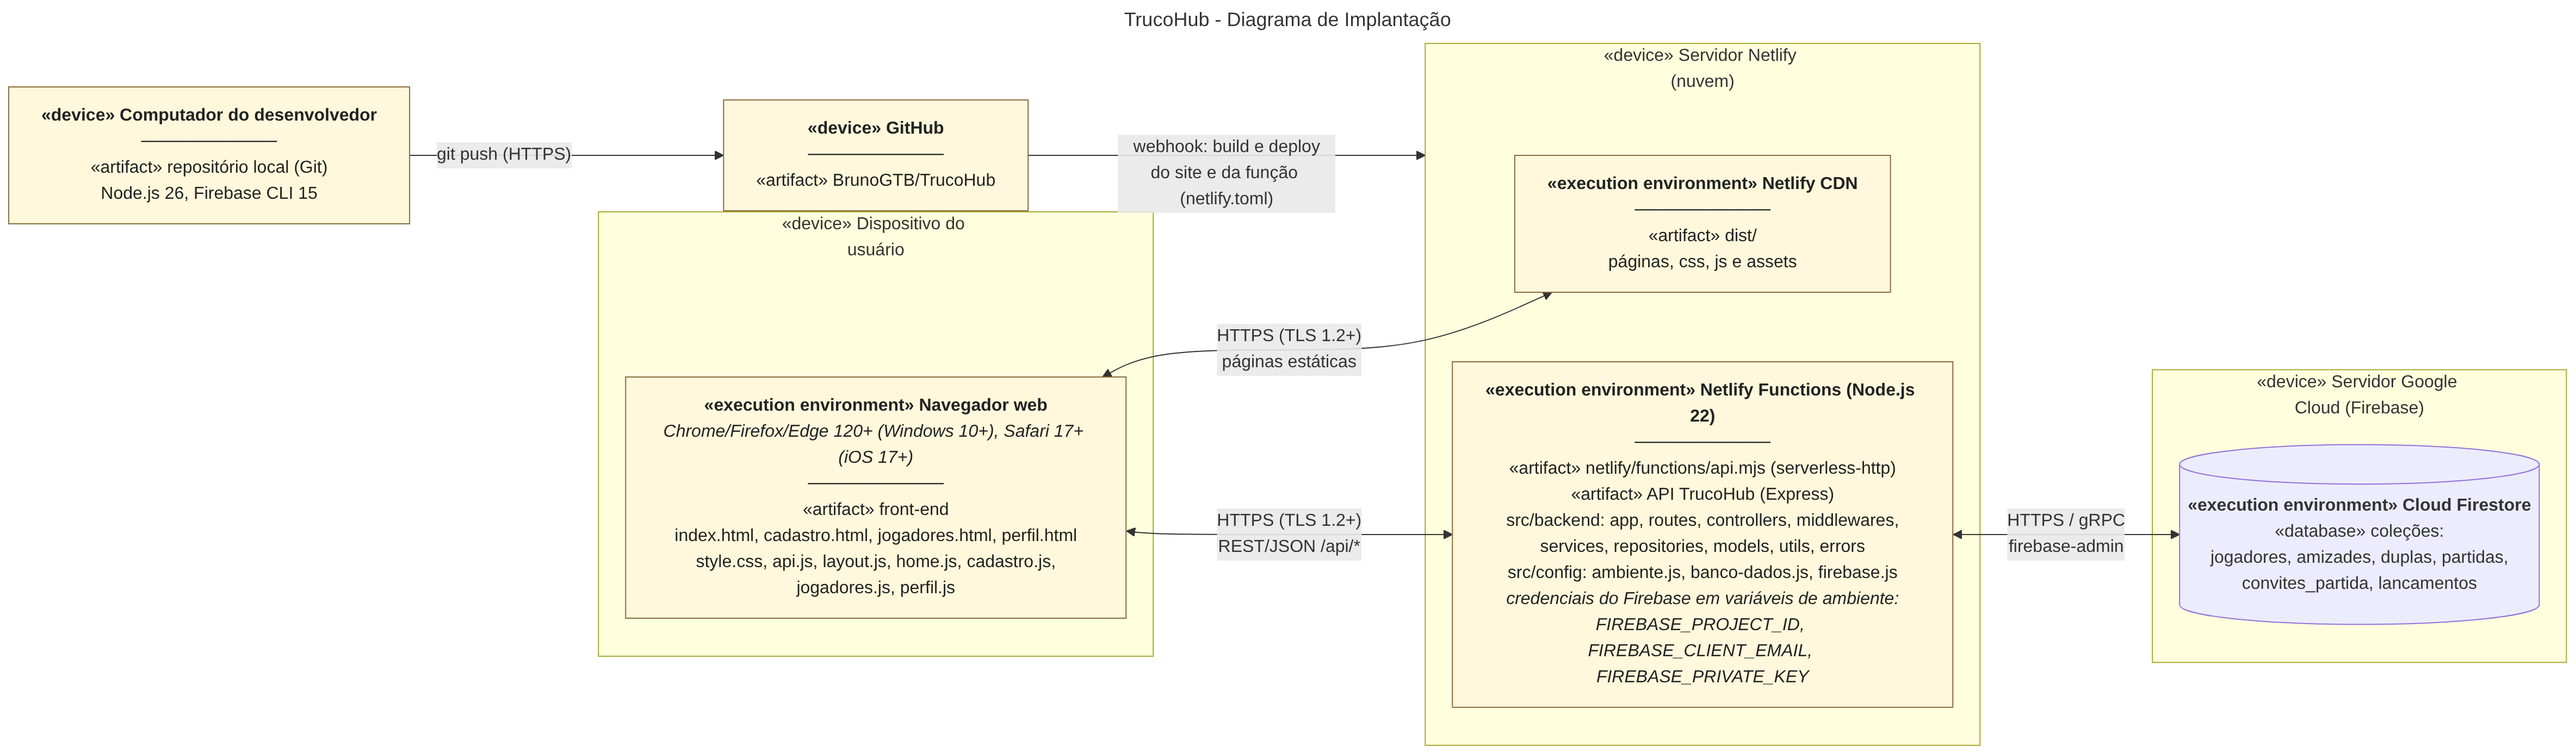
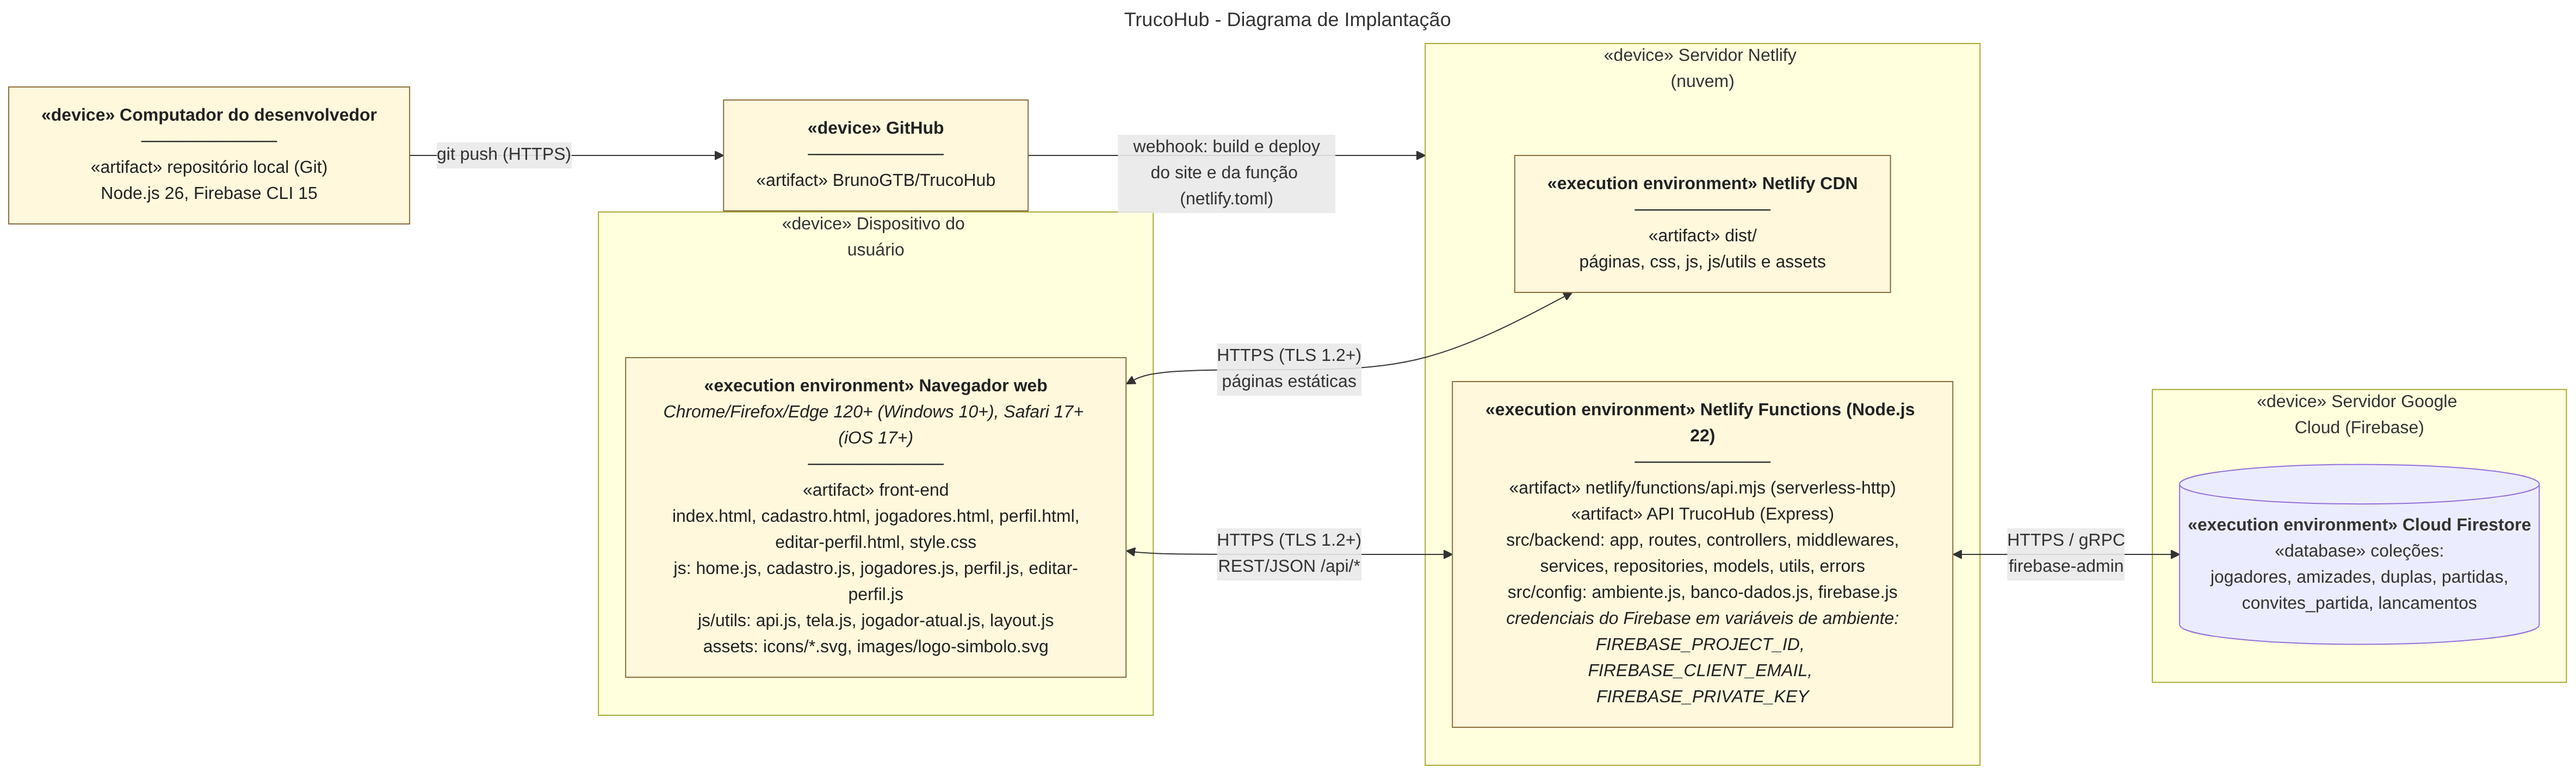
docs(diagramas): alinha jogador às telas montadas do Figma
Alterar e Excluir Jogador passam para editar-perfil.html (T17) e os
scripts compartilhados para js/utils (api, tela, jogador-atual, layout).
Pacotes e implantação listam editar-perfil, js/utils e public/assets.

diff --git a/docs/diagramas/README.md b/docs/diagramas/README.md
@@ -200,11 +200,12 @@ flowchart TB
         direction TB
         subgraph FRONT["📦 src/frontend  (front-end)"]
             direction LR
-            PAGES["📁 pages<br/><i>telas HTML</i><br/>index.html, cadastro.html, jogadores.html,<br/>perfil.html, partidas.html"]
-            JS["📁 js<br/><i>scripts das telas</i><br/>api.js, layout.js, logo.js, home.js, cadastro.js,<br/>jogadores.js, perfil.js, partidas.js"]
+            PAGES["📁 pages<br/><i>telas HTML</i><br/>index.html, cadastro.html, jogadores.html,<br/>perfil.html, editar-perfil.html,<br/>partidas.html <i>(RF012 a RF015, a criar)</i>"]
+            JS["📁 js<br/><i>scripts das telas</i><br/>home.js, cadastro.js, jogadores.js, perfil.js,<br/>editar-perfil.js, partidas.js <i>(a criar)</i>"]
+            JSUTILS["📁 js/utils<br/><i>scripts compartilhados</i><br/>api.js, tela.js, jogador-atual.js, layout.js"]
             CSS["📁 css<br/><i>estilos</i><br/>style.css"]
         end
-        ASSETS["📁 public/assets<br/><i>ícones e imagens</i>"]
+        ASSETS["📁 public/assets<br/><i>ícones e imagens do Figma</i><br/>icons/*.svg, images/logo-simbolo.svg"]
         NETFN["📁 netlify/functions<br/>api.mjs<br/><i>roda o app Express no Netlify (serverless-http)</i>"]
         subgraph BACK["📦 src/backend  (back-end)"]
             direction TB
@@ -227,7 +228,9 @@ flowchart TB
     PAGES -.->|«use»| JS
     PAGES -.->|«use»| CSS
     PAGES -.->|«use»| ASSETS
-    JS -.->|«use» HTTP /api| ROUTES
+    JS -.->|«import»| JSUTILS
+    JSUTILS -.->|«use» HTTP /api| ROUTES
+    JSUTILS -.->|«use»| ASSETS
     NETFN -.->|«import»| APP
     NETFN -.->|«import»| CONFIG
     NETFN -.->|«import»| EXPRESS
@@ -255,7 +258,7 @@ flowchart TB
 
     classDef pkg fill:#fff8dc,stroke:#8a6d3b,color:#222
     classDef ext fill:#eef3ff,stroke:#3b5998,color:#222
-    class NETFN,APP,MIDDLE,ERRORS,PAGES,JS,CSS,ASSETS,ROUTES,CTRL,SERV,REPO,MODELS,UTILS,CONFIG,TESTS pkg
+    class NETFN,APP,MIDDLE,ERRORS,PAGES,JS,JSUTILS,CSS,ASSETS,ROUTES,CTRL,SERV,REPO,MODELS,UTILS,CONFIG,TESTS pkg
     class FIREBASE,EXPRESS ext
 ```
 
@@ -274,7 +277,9 @@ sequenceDiagram
     actor U as Jogador
     participant T as «view»<br/>cadastro.html (T02)
     participant S as «script»<br/>cadastro.js
-    participant A as «script»<br/>api.js
+    participant TL as «script»<br/>utils/tela.js
+    participant JA as «script»<br/>utils/jogador-atual.js
+    participant A as «script»<br/>utils/api.js
     participant R as «route»<br/>jogador-routes.js
     participant C as «controller»<br/>jogador-controller.js
     participant SV as «service»<br/>jogador-service.js
@@ -285,8 +290,8 @@ sequenceDiagram
 
     U->>T: preenche nome, apelido, e-mail, senha e confirmação e clica em "Criar conta"
     T->>S: evento submit do formCadastro
-    S->>A: lerFormulario(formCadastro)
-    A-->>S: dados
+    S->>TL: lerFormulario(formCadastro)
+    TL-->>S: dados
     S->>A: chamarApi('', POST, dados)
     A->>R: fetch POST /api/jogadores
     R->>C: cadastrar(req, res)
@@ -314,8 +319,8 @@ sequenceDiagram
     C-->>R: res.status(201).location(...).json(jogador)
     R-->>A: 201 Created + JSON
     A-->>S: jogador
-    S->>A: salvarJogadorAtual(jogador) (localStorage)
-    S->>A: exibirMensagem("Conta criada com sucesso! Abrindo a Home...")
+    S->>JA: salvarJogadorAtual(jogador) (localStorage)
+    S->>TL: exibirMensagem("Conta criada com sucesso! Abrindo a Home...")
     S->>T: redireciona para index.html
     T-->>U: apresenta a Home (T03)
 ```
@@ -337,7 +342,7 @@ sequenceDiagram
     participant S as «script»<br/>jogadores.js
     participant P as «view»<br/>perfil.html (T07)
     participant PS as «script»<br/>perfil.js
-    participant A as «script»<br/>api.js
+    participant A as «script»<br/>utils/api.js
     participant R as «route»<br/>jogador-routes.js
     participant C as «controller»<br/>jogador-controller.js
     participant SV as «service»<br/>jogador-service.js
@@ -345,8 +350,8 @@ sequenceDiagram
     participant RP as «repository»<br/>jogador-repository-firestore.js
     participant DB as «database»<br/>Firestore: jogadores
 
-    U->>T: digita parte do nome ou do apelido e clica em "Buscar"
-    T->>S: evento submit do formBusca
+    U->>T: digita parte do nome ou do apelido
+    T->>S: evento input (ou submit) do formBusca
     S->>S: buscarJogadores(texto)
     S->>A: chamarApi('?busca=texto')
     A->>R: fetch GET /api/jogadores?busca=texto
@@ -383,7 +388,7 @@ sequenceDiagram
     R-->>A: 200 OK + JSON
     A-->>PS: jogador
     PS->>P: preencherPerfil(jogador)
-    P-->>U: apresenta foto, nome, apelido e e-mail do jogador
+    P-->>U: apresenta foto, nome, apelido e data de cadastro do jogador
 ```
 
 <a id="05-seq-alterar-jogador"></a>
@@ -399,9 +404,11 @@ title: "RF004 - Alterar Jogador (CRUD de 1 tabela - Update)"
 sequenceDiagram
     autonumber
     actor U as Jogador
-    participant T as «view»<br/>perfil.html (T07)
-    participant S as «script»<br/>perfil.js
-    participant A as «script»<br/>api.js
+    participant T as «view»<br/>editar-perfil.html (T17)
+    participant S as «script»<br/>editar-perfil.js
+    participant TL as «script»<br/>utils/tela.js
+    participant JA as «script»<br/>utils/jogador-atual.js
+    participant A as «script»<br/>utils/api.js
     participant R as «route»<br/>jogador-routes.js
     participant C as «controller»<br/>jogador-controller.js
     participant SV as «service»<br/>jogador-service.js
@@ -412,8 +419,8 @@ sequenceDiagram
 
     U->>T: altera nome, apelido, foto ou senha e clica em "Salvar"
     T->>S: evento submit do formEdicao
-    S->>A: lerFormulario(formEdicao)
-    A-->>S: alterações (sem o e-mail)
+    S->>TL: lerFormulario(formEdicao)
+    TL-->>S: alterações (sem o e-mail)
     S->>A: chamarApi('/id', PATCH, alteracoes)
     A->>R: fetch PATCH /api/jogadores/:id
     R->>C: alterar(req, res)
@@ -439,10 +446,10 @@ sequenceDiagram
     C-->>R: res.status(200).json(jogador)
     R-->>A: 200 OK + JSON
     A-->>S: jogador
-    S->>T: preencherPerfil(jogador)
-    S->>A: salvarJogadorAtual(jogador), se for o próprio perfil
-    S->>A: exibirMensagem("Perfil atualizado com sucesso!")
-    T-->>U: apresenta o perfil atualizado e a mensagem
+    S->>JA: salvarJogadorAtual(jogador)
+    S->>T: preencherFormulario(jogador) e atualiza a sidebar
+    S->>TL: exibirMensagem("Perfil atualizado com sucesso!")
+    T-->>U: apresenta os dados atualizados e a mensagem
 ```
 
 <a id="06-seq-excluir-jogador"></a>
@@ -458,9 +465,11 @@ title: "RF005 - Excluir Jogador (CRUD de 1 tabela - Delete, exclusão lógica)"
 sequenceDiagram
     autonumber
     actor U as Jogador
-    participant T as «view»<br/>perfil.html (T07)
-    participant S as «script»<br/>perfil.js
-    participant A as «script»<br/>api.js
+    participant T as «view»<br/>editar-perfil.html (T17)
+    participant S as «script»<br/>editar-perfil.js
+    participant TL as «script»<br/>utils/tela.js
+    participant JA as «script»<br/>utils/jogador-atual.js
+    participant A as «script»<br/>utils/api.js
     participant R as «route»<br/>jogador-routes.js
     participant C as «controller»<br/>jogador-controller.js
     participant SV as «service»<br/>jogador-service.js
@@ -470,8 +479,8 @@ sequenceDiagram
 
     U->>T: em "Excluir conta", digita a senha e confirma
     T->>S: evento submit do formExclusao
-    S->>A: lerFormulario(formExclusao)
-    A-->>S: {senha}
+    S->>TL: lerFormulario(formExclusao)
+    TL-->>S: {senha}
     S->>A: chamarApi('/id', DELETE, {senha})
     A->>R: fetch DELETE /api/jogadores/:id
     R->>C: excluir(req, res)
@@ -490,10 +499,11 @@ sequenceDiagram
     C-->>R: res.status(204).end()
     R-->>A: 204 No Content
     A-->>S: null
-    S->>A: salvarJogadorAtual(null), se for o próprio perfil
-    S->>T: esconde o perfil
-    S->>A: exibirMensagem("Conta excluída.")
-    T-->>U: apresenta a mensagem "Conta excluída."
+    S->>JA: salvarJogadorAtual(null)
+    S->>T: esconde o formulário
+    S->>TL: exibirMensagem("Conta excluída. Voltando para a Home...")
+    S->>T: redireciona para index.html
+    T-->>U: apresenta a Home (T03) sem jogador em uso
 ```
 
 <a id="07-seq-criar-partida"></a>
@@ -752,12 +762,12 @@ title: "TrucoHub - Diagrama de Implantação"
 ---
 flowchart LR
     subgraph CLIENTE["«device» Dispositivo do usuário"]
-        FRONTART["<b>«execution environment» Navegador web</b><br/><i>Chrome/Firefox/Edge 120+ (Windows 10+), Safari 17+ (iOS 17+)</i><br/>───────────<br/>«artifact» front-end<br/>index.html, cadastro.html, jogadores.html, perfil.html<br/>style.css, api.js, layout.js, home.js, cadastro.js,<br/>jogadores.js, perfil.js"]
+        FRONTART["<b>«execution environment» Navegador web</b><br/><i>Chrome/Firefox/Edge 120+ (Windows 10+), Safari 17+ (iOS 17+)</i><br/>───────────<br/>«artifact» front-end<br/>index.html, cadastro.html, jogadores.html, perfil.html,<br/>editar-perfil.html, style.css<br/>js: home.js, cadastro.js, jogadores.js, perfil.js, editar-perfil.js<br/>js/utils: api.js, tela.js, jogador-atual.js, layout.js<br/>assets: icons/*.svg, images/logo-simbolo.svg"]
     end
 
     subgraph NETLIFY["«device» Servidor Netlify (nuvem)"]
         direction TB
-        DIST["<b>«execution environment» Netlify CDN</b><br/>───────────<br/>«artifact» dist/<br/>páginas, css, js e assets"]
+        DIST["<b>«execution environment» Netlify CDN</b><br/>───────────<br/>«artifact» dist/<br/>páginas, css, js, js/utils e assets"]
         API["<b>«execution environment» Netlify Functions (Node.js 22)</b><br/>───────────<br/>«artifact» netlify/functions/api.mjs (serverless-http)<br/>«artifact» API TrucoHub (Express)<br/>src/backend: app, routes, controllers, middlewares,<br/>services, repositories, models, utils, errors<br/>src/config: ambiente.js, banco-dados.js, firebase.js<br/><i>credenciais do Firebase em variáveis de ambiente:<br/>FIREBASE_PROJECT_ID, FIREBASE_CLIENT_EMAIL, FIREBASE_PRIVATE_KEY</i>"]
     end
 
